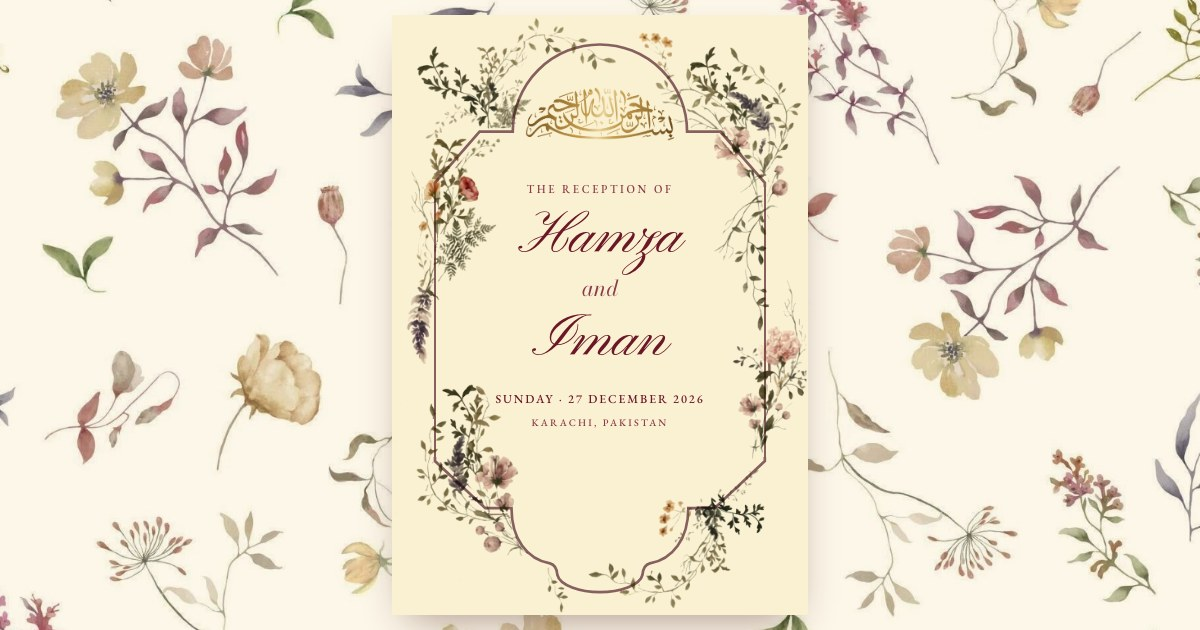
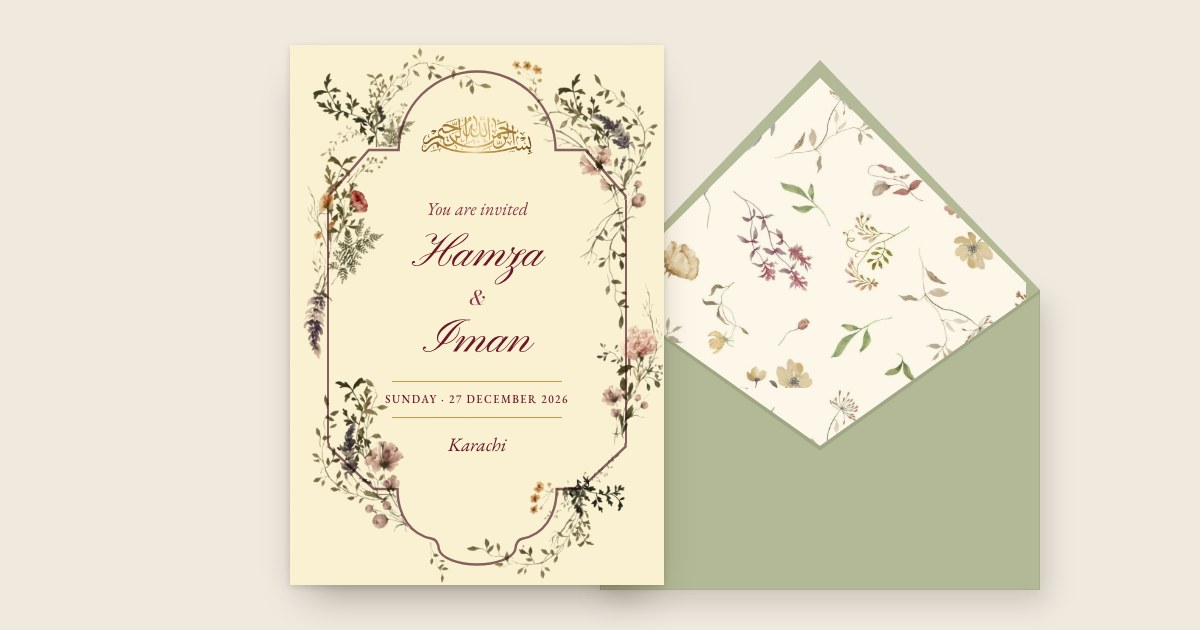
Link previews: the card in front of an opened envelope; 'You're invited 💌'
Shaadi: the gold-bordered card (Bismillah, You are invited, Iman & Hamza,
Monday · 21 December 2026, Lahore) before a maroon envelope lined with the
Mughal floral. Reception: the floral-arch card (Hamza & Iman, Sunday ·
27 December 2026, Karachi) before a sage envelope lined with the
wildflowers. WhatsApp title/description: 'You're invited 💌' / 'The Shaadi
of Iman & Hamza · Monday, 21 December 2026. Open your invitation.' (and
the Reception's equivalent). Previous design kept in reference/.

diff --git a/src/entry-og.tsx b/src/entry-og.tsx
@@ -1,66 +1,83 @@
 import { createRoot } from 'react-dom/client'
 import './styles/global.css'
 import './styles/sections.css'
-import { shaadi } from './content/shaadi'
-import { walima } from './content/walima'
 import { shaadiTheme } from './theme/shaadi'
 import { walimaTheme } from './theme/walima'
 import { applyTheme } from './theme/types'
 import { ReferenceFrame } from './components/Illumination'
 import { ArchFrame } from './components/sections/Hero'
-import shaadiPattern from './assets/og/shaadi-pattern.jpg'   // the mockup's pattern, single copy (no join)
+import shaadiPattern from './assets/og/shaadi-pattern.jpg'
 import receptionPattern from './assets/walima/verse-wildflowers.jpg'
 
 // Rendered only to produce /public/og/{event}.jpg (the link-preview picture),
-// photographed at 1200 x 630. Not part of the guest build.
+// photographed at 1200 x 630: the invitation card standing in front of an
+// opened envelope lined with the invitation's own pattern.
 const ev = new URLSearchParams(location.search).get('event') === 'walima' ? 'walima' : 'shaadi'
-const content = ev === 'walima' ? walima : shaadi
-const theme = ev === 'walima' ? walimaTheme : shaadiTheme
-applyTheme(theme)
+applyTheme(ev === 'walima' ? walimaTheme : shaadiTheme)
 
-const caps = { fontFamily: 'var(--font-body)', fontWeight: 500, textTransform: 'uppercase' as const, letterSpacing: '0.28em', color: 'var(--ink)' }
+const look = ev === 'walima'
+  ? { bg: '#efe9de', env: '#b3b996', envEdge: '#9ea583', liner: receptionPattern, linerSize: '520px auto' }
+  : { bg: '#efe8dc', env: '#5b1422', envEdge: '#7a2133', liner: shaadiPattern, linerSize: '420px auto' }
+
+const caps = { fontFamily: 'var(--font-body)', fontWeight: 500, textTransform: 'uppercase' as const, color: 'var(--ink)' }
+
+function Envelope() {
+  // opened envelope seen from the front: flap folded up, liner showing
+  const W = 440, FLAP = 230, BODY = 300
+  return (
+    <div style={{ position: 'absolute', left: 600, top: 630 - FLAP - BODY - 40, width: W, height: FLAP + BODY }}>
+      <div style={{ position: 'absolute', left: 6, right: -6, top: FLAP + 12, height: BODY, background: 'rgba(40,20,10,0.18)', filter: 'blur(14px)' }} />
+      {/* the envelope's back and open flap, then its liner as one piece */}
+      <div style={{ position: 'absolute', left: 0, top: 0, width: W, height: FLAP + BODY, background: look.env, clipPath: `polygon(50% 0, 100% ${FLAP}px, 100% 100%, 0 100%, 0 ${FLAP}px)` }} />
+      <div style={{ position: 'absolute', left: 14, top: 18, width: W - 28, height: FLAP - 18 + BODY * 0.62, backgroundColor: '#f5ecd6', backgroundImage: `url(${look.liner})`, backgroundSize: look.linerSize, backgroundPosition: 'center top', clipPath: `polygon(50% 0, 100% ${FLAP - 18 - 7}px, 100% 100%, 0 100%, 0 ${FLAP - 18 - 7}px)` }} />
+      {/* front pocket with its V */}
+      <div style={{ position: 'absolute', left: 0, top: FLAP, width: W, height: BODY, background: look.env, clipPath: 'polygon(0 0, 50% 52%, 100% 0, 100% 100%, 0 100%)', boxShadow: 'inset 0 0 0 1px rgba(0,0,0,0.05)' }} />
+      <div style={{ position: 'absolute', left: 0, top: FLAP, width: W, height: BODY, background: `linear-gradient(${look.envEdge}, ${look.envEdge})`, clipPath: 'polygon(0 0, 50% 52%, 100% 0, 100% 1.2%, 50% 53.5%, 0 1.2%)', opacity: 0.9 }} />
+    </div>
+  )
+}
 
 function ShaadiCard() {
   return (
-    <div style={{ position: 'relative', width: 640, height: 560, background: '#faf1d2', boxShadow: '0 18px 40px -16px rgba(60,20,10,0.55)' }}>
-      <ReferenceFrame className="folio-frame" bandRatio={0.1} />
-      <div style={{ position: 'absolute', inset: 0, zIndex: 2, display: 'flex', flexDirection: 'column', alignItems: 'center', justifyContent: 'center', textAlign: 'center', padding: '0 90px' }}>
-        <div className="hero-calligraphy" style={{ width: 196, margin: '0 auto' }} />
-        <p style={{ ...caps, fontSize: 13, marginTop: 12, color: 'var(--ink-soft)' }}>The Shaadi of</p>
-        {/* stacked as on the invitation: ایمان / with / حمزہ */}
-        <p style={{ fontFamily: "'Nafees Names'", fontSize: 58, lineHeight: 1.25, color: 'var(--ink)', marginTop: 6 }} lang="ur" dir="rtl">{content.couple.firstArabic}</p>
-        <p style={{ fontFamily: 'var(--font-display)', fontStyle: 'italic', fontSize: 24, color: 'var(--ink-soft)', margin: '-2px 0 0' }}>with</p>
-        <p style={{ fontFamily: "'Nafees Names'", fontSize: 58, lineHeight: 1.25, color: 'var(--ink)' }} lang="ur" dir="rtl">{content.couple.secondArabic}</p>
-        <span style={{ display: 'block', width: 110, height: 1, background: 'var(--gold)', margin: '10px auto 14px' }} />
-        <p style={{ ...caps, fontSize: 16 }}>Monday · 21 December 2026</p>
-        <p style={{ ...caps, fontSize: 12, marginTop: 8, color: 'var(--ink-soft)' }}>Lahore, Pakistan</p>
+    <div style={{ position: 'absolute', left: 250, top: 45, width: 420, height: 540, background: '#faf1d2', boxShadow: '0 22px 40px -18px rgba(40,15,8,0.55), 0 2px 6px rgba(40,15,8,0.18)' }}>
+      <ReferenceFrame className="folio-frame" bandRatio={0.115} />
+      <div style={{ position: 'absolute', inset: 0, zIndex: 2, display: 'flex', flexDirection: 'column', alignItems: 'center', justifyContent: 'center', textAlign: 'center', padding: '0 70px' }}>
+        <div className="hero-calligraphy" style={{ width: 150, margin: '0 auto' }} />
+        <p style={{ fontFamily: 'var(--font-body)', fontStyle: 'italic', fontSize: 22, color: 'var(--ink-soft)', marginTop: 22 }}>You are invited</p>
+        <p style={{ fontFamily: 'var(--font-display)', fontSize: 37, letterSpacing: '0.02em', lineHeight: 1.1, color: 'var(--ink)', marginTop: 14, whiteSpace: 'nowrap' }}>Iman <span style={{ fontStyle: 'italic', fontSize: 30 }}>&amp;</span> Hamza</p>
+        <span style={{ display: 'block', width: 200, height: 1, background: 'var(--gold)', margin: '22px auto 0' }} />
+        <p style={{ ...caps, fontSize: 14, letterSpacing: '0.22em', margin: '11px 0' }}>Monday · 21 December 2026</p>
+        <span style={{ display: 'block', width: 200, height: 1, background: 'var(--gold)', margin: '0 auto' }} />
+        <p style={{ fontFamily: 'var(--font-body)', fontStyle: 'italic', fontSize: 22, color: 'var(--ink)', marginTop: 18 }}>Lahore</p>
       </div>
     </div>
   )
 }
 
 function ReceptionCard() {
-  // the Reception's floral arch, sized to 600px tall
+  const H = 540, Wd = H * 1016 / 1466
   return (
-    <div className="hero-folio hero-arch" style={{ ['--vw' as string]: `${(600 * 1016 / 1466) / 100}px`, position: 'relative', width: 600 * 1016 / 1466, height: 600, minHeight: 0, padding: 0, display: 'block', boxShadow: '0 18px 40px -16px rgba(60,20,10,0.45)' }}>
+    <div className="hero-folio hero-arch" style={{ ['--vw' as string]: `${Wd / 100}px`, position: 'absolute', left: 290, top: 45, width: Wd, height: H, minHeight: 0, padding: 0, display: 'block', boxShadow: '0 22px 40px -18px rgba(40,25,10,0.45), 0 2px 6px rgba(40,25,10,0.15)' }}>
       <ArchFrame />
-      <div style={{ position: 'absolute', inset: 0, zIndex: 3, display: 'flex', flexDirection: 'column', alignItems: 'center', textAlign: 'center', paddingTop: 72 }}>
-        <div className="hero-calligraphy" style={{ width: 150, margin: '0 auto' }} />
-        <p style={{ ...caps, fontSize: 11, letterSpacing: '0.24em', marginTop: 40, color: 'var(--ink-soft)' }}>The Reception of</p>
-        <p style={{ fontFamily: "'Pinyon Script'", fontSize: 60, lineHeight: 1.12, color: 'var(--ink)', marginTop: 6 }}>{content.couple.first}</p>
-        <p style={{ fontFamily: 'var(--font-display)', fontStyle: 'italic', fontSize: 22, color: 'var(--ink-soft)', margin: '0 0 2px' }}>and</p>
-        <p style={{ fontFamily: "'Pinyon Script'", fontSize: 60, lineHeight: 1.12, color: 'var(--ink)' }}>{content.couple.second}</p>
-        <p style={{ ...caps, fontSize: 12, letterSpacing: '0.16em', marginTop: 16 }}>Sunday · 27 December 2026</p>
-        <p style={{ ...caps, fontSize: 10, letterSpacing: '0.22em', marginTop: 6, color: 'var(--ink-soft)' }}>Karachi, Pakistan</p>
+      <div style={{ position: 'absolute', inset: 0, zIndex: 3, display: 'flex', flexDirection: 'column', alignItems: 'center', textAlign: 'center', paddingTop: 70 }}>
+        <div className="hero-calligraphy" style={{ width: 112, margin: '0 auto' }} />
+        <p style={{ fontFamily: 'var(--font-body)', fontStyle: 'italic', fontSize: 18, color: 'var(--ink-soft)', marginTop: 40 }}>You are invited</p>
+        <p style={{ fontFamily: "'Pinyon Script'", fontSize: 48, lineHeight: 1.1, color: 'var(--ink)', marginTop: 6 }}>Hamza</p>
+        <p style={{ fontFamily: 'var(--font-display)', fontStyle: 'italic', fontSize: 20, color: 'var(--ink-soft)', margin: '0 0 2px' }}>&amp;</p>
+        <p style={{ fontFamily: "'Pinyon Script'", fontSize: 48, lineHeight: 1.1, color: 'var(--ink)' }}>Iman</p>
+        <span style={{ display: 'block', width: 170, height: 1, background: 'var(--gold)', margin: '14px auto 0' }} />
+        <p style={{ ...caps, fontSize: 11, letterSpacing: '0.13em', margin: '9px 0' }}>Sunday · 27 December 2026</p>
+        <span style={{ display: 'block', width: 170, height: 1, background: 'var(--gold)', margin: '0 auto' }} />
+        <p style={{ fontFamily: 'var(--font-body)', fontStyle: 'italic', fontSize: 19, color: 'var(--ink)', marginTop: 12 }}>Karachi</p>
       </div>
     </div>
   )
 }
 
 function Og() {
-  const pattern = ev === 'walima' ? receptionPattern : shaadiPattern
   return (
-    <div style={{ width: 1200, height: 630, display: 'flex', alignItems: 'center', justifyContent: 'center', backgroundColor: '#f6ead2', backgroundImage: `url(${pattern})`, backgroundSize: 'cover', backgroundPosition: 'center' }}>
+    <div style={{ position: 'relative', width: 1200, height: 630, background: look.bg, overflow: 'hidden' }}>
+      <Envelope />
       {ev === 'walima' ? <ReceptionCard /> : <ShaadiCard />}
     </div>
   )

diff --git a/reference/entry-og-card-version.tsx b/reference/entry-og-card-version.tsx
@@ -1,0 +1,68 @@
+import { createRoot } from 'react-dom/client'
+import './styles/global.css'
+import './styles/sections.css'
+import { shaadi } from './content/shaadi'
+import { walima } from './content/walima'
+import { shaadiTheme } from './theme/shaadi'
+import { walimaTheme } from './theme/walima'
+import { applyTheme } from './theme/types'
+import { ReferenceFrame } from './components/Illumination'
+import { ArchFrame } from './components/sections/Hero'
+import shaadiPattern from './assets/og/shaadi-pattern.jpg'   // the mockup's pattern, single copy (no join)
+import receptionPattern from './assets/walima/verse-wildflowers.jpg'
+
+// Rendered only to produce /public/og/{event}.jpg (the link-preview picture),
+// photographed at 1200 x 630. Not part of the guest build.
+const ev = new URLSearchParams(location.search).get('event') === 'walima' ? 'walima' : 'shaadi'
+const content = ev === 'walima' ? walima : shaadi
+const theme = ev === 'walima' ? walimaTheme : shaadiTheme
+applyTheme(theme)
+
+const caps = { fontFamily: 'var(--font-body)', fontWeight: 500, textTransform: 'uppercase' as const, letterSpacing: '0.28em', color: 'var(--ink)' }
+
+function ShaadiCard() {
+  return (
+    <div style={{ position: 'relative', width: 640, height: 560, background: '#faf1d2', boxShadow: '0 18px 40px -16px rgba(60,20,10,0.55)' }}>
+      <ReferenceFrame className="folio-frame" bandRatio={0.1} />
+      <div style={{ position: 'absolute', inset: 0, zIndex: 2, display: 'flex', flexDirection: 'column', alignItems: 'center', justifyContent: 'center', textAlign: 'center', padding: '0 90px' }}>
+        <div className="hero-calligraphy" style={{ width: 196, margin: '0 auto' }} />
+        <p style={{ ...caps, fontSize: 13, marginTop: 12, color: 'var(--ink-soft)' }}>The Shaadi of</p>
+        {/* stacked as on the invitation: ایمان / with / حمزہ */}
+        <p style={{ fontFamily: "'Nafees Names'", fontSize: 58, lineHeight: 1.25, color: 'var(--ink)', marginTop: 6 }} lang="ur" dir="rtl">{content.couple.firstArabic}</p>
+        <p style={{ fontFamily: 'var(--font-display)', fontStyle: 'italic', fontSize: 24, color: 'var(--ink-soft)', margin: '-2px 0 0' }}>with</p>
+        <p style={{ fontFamily: "'Nafees Names'", fontSize: 58, lineHeight: 1.25, color: 'var(--ink)' }} lang="ur" dir="rtl">{content.couple.secondArabic}</p>
+        <span style={{ display: 'block', width: 110, height: 1, background: 'var(--gold)', margin: '10px auto 14px' }} />
+        <p style={{ ...caps, fontSize: 16 }}>Monday · 21 December 2026</p>
+        <p style={{ ...caps, fontSize: 12, marginTop: 8, color: 'var(--ink-soft)' }}>Lahore, Pakistan</p>
+      </div>
+    </div>
+  )
+}
+
+function ReceptionCard() {
+  // the Reception's floral arch, sized to 600px tall
+  return (
+    <div className="hero-folio hero-arch" style={{ ['--vw' as string]: `${(600 * 1016 / 1466) / 100}px`, position: 'relative', width: 600 * 1016 / 1466, height: 600, minHeight: 0, padding: 0, display: 'block', boxShadow: '0 18px 40px -16px rgba(60,20,10,0.45)' }}>
+      <ArchFrame />
+      <div style={{ position: 'absolute', inset: 0, zIndex: 3, display: 'flex', flexDirection: 'column', alignItems: 'center', textAlign: 'center', paddingTop: 72 }}>
+        <div className="hero-calligraphy" style={{ width: 150, margin: '0 auto' }} />
+        <p style={{ ...caps, fontSize: 11, letterSpacing: '0.24em', marginTop: 40, color: 'var(--ink-soft)' }}>The Reception of</p>
+        <p style={{ fontFamily: "'Pinyon Script'", fontSize: 60, lineHeight: 1.12, color: 'var(--ink)', marginTop: 6 }}>{content.couple.first}</p>
+        <p style={{ fontFamily: 'var(--font-display)', fontStyle: 'italic', fontSize: 22, color: 'var(--ink-soft)', margin: '0 0 2px' }}>and</p>
+        <p style={{ fontFamily: "'Pinyon Script'", fontSize: 60, lineHeight: 1.12, color: 'var(--ink)' }}>{content.couple.second}</p>
+        <p style={{ ...caps, fontSize: 12, letterSpacing: '0.16em', marginTop: 16 }}>Sunday · 27 December 2026</p>
+        <p style={{ ...caps, fontSize: 10, letterSpacing: '0.22em', marginTop: 6, color: 'var(--ink-soft)' }}>Karachi, Pakistan</p>
+      </div>
+    </div>
+  )
+}
+
+function Og() {
+  const pattern = ev === 'walima' ? receptionPattern : shaadiPattern
+  return (
+    <div style={{ width: 1200, height: 630, display: 'flex', alignItems: 'center', justifyContent: 'center', backgroundColor: '#f6ead2', backgroundImage: `url(${pattern})`, backgroundSize: 'cover', backgroundPosition: 'center' }}>
+      {ev === 'walima' ? <ReceptionCard /> : <ShaadiCard />}
+    </div>
+  )
+}
+createRoot(document.getElementById('root')!).render(<Og />)

diff --git a/walima/index.html b/walima/index.html
@@ -9,14 +9,14 @@
     <meta name="description" content="You are invited to the Reception of Hamza and Iman. Sunday, 27 December 2026, Karachi." />
     <!-- Open Graph: the WhatsApp preview. Replace https://SITE_URL with the real domain. -->
     <meta property="og:type" content="website" />
-    <meta property="og:title" content="Hamza &amp; Iman · Reception · 27 December 2026" />
-    <meta property="og:description" content="You are invited to the Reception of Hamza and Iman. Sunday, 27 December 2026, Karachi." />
+    <meta property="og:title" content="You’re invited 💌" />
+    <meta property="og:description" content="The Reception of Hamza &amp; Iman · Sunday, 27 December 2026. Open your invitation." />
     <meta property="og:image" content="https://hbaig2701.github.io/wedding-invite/og/walima.jpg" />
     <meta property="og:image:width" content="1200" />
     <meta property="og:image:height" content="630" />
     <meta property="og:url" content="https://hbaig2701.github.io/wedding-invite/walima/" />
     <meta name="twitter:card" content="summary_large_image" />
-    <meta name="twitter:title" content="Hamza &amp; Iman · Reception · 27 December 2026" />
+    <meta name="twitter:title" content="You’re invited 💌" />
     <meta name="twitter:image" content="https://hbaig2701.github.io/wedding-invite/og/walima.jpg" />
     <link rel="icon" href="/favicon.svg" type="image/svg+xml" />
     <meta name="robots" content="noindex" />

diff --git a/index.html b/index.html
@@ -9,14 +9,14 @@
     <meta name="description" content="You are invited to the Shaadi of Iman and Hamza. Monday, 21 December 2026, Lahore." />
     <!-- Open Graph: the WhatsApp preview. Replace https://SITE_URL with the real domain. -->
     <meta property="og:type" content="website" />
-    <meta property="og:title" content="Iman &amp; Hamza · Shaadi · 21 December 2026" />
-    <meta property="og:description" content="You are invited to the Shaadi of Iman and Hamza. Monday, 21 December 2026, Lahore." />
+    <meta property="og:title" content="You’re invited 💌" />
+    <meta property="og:description" content="The Shaadi of Iman &amp; Hamza · Monday, 21 December 2026. Open your invitation." />
     <meta property="og:image" content="https://hbaig2701.github.io/wedding-invite/og/shaadi.jpg" />
     <meta property="og:image:width" content="1200" />
     <meta property="og:image:height" content="630" />
     <meta property="og:url" content="https://hbaig2701.github.io/wedding-invite/shaadi/" />
     <meta name="twitter:card" content="summary_large_image" />
-    <meta name="twitter:title" content="Iman &amp; Hamza · Shaadi · 21 December 2026" />
+    <meta name="twitter:title" content="You’re invited 💌" />
     <meta name="twitter:image" content="https://hbaig2701.github.io/wedding-invite/og/shaadi.jpg" />
     <link rel="icon" href="/favicon.svg" type="image/svg+xml" />
     <meta name="robots" content="noindex" />

diff --git a/shaadi/index.html b/shaadi/index.html
@@ -9,14 +9,14 @@
     <meta name="description" content="You are invited to the Shaadi of Iman and Hamza. Monday, 21 December 2026, Lahore." />
     <!-- Open Graph: the WhatsApp preview. Replace https://SITE_URL with the real domain. -->
     <meta property="og:type" content="website" />
-    <meta property="og:title" content="Iman &amp; Hamza · Shaadi · 21 December 2026" />
-    <meta property="og:description" content="You are invited to the Shaadi of Iman and Hamza. Monday, 21 December 2026, Lahore." />
+    <meta property="og:title" content="You’re invited 💌" />
+    <meta property="og:description" content="The Shaadi of Iman &amp; Hamza · Monday, 21 December 2026. Open your invitation." />
     <meta property="og:image" content="https://hbaig2701.github.io/wedding-invite/og/shaadi.jpg" />
     <meta property="og:image:width" content="1200" />
     <meta property="og:image:height" content="630" />
     <meta property="og:url" content="https://hbaig2701.github.io/wedding-invite/shaadi/" />
     <meta name="twitter:card" content="summary_large_image" />
-    <meta name="twitter:title" content="Iman &amp; Hamza · Shaadi · 21 December 2026" />
+    <meta name="twitter:title" content="You’re invited 💌" />
     <meta name="twitter:image" content="https://hbaig2701.github.io/wedding-invite/og/shaadi.jpg" />
     <link rel="icon" href="/favicon.svg" type="image/svg+xml" />
     <meta name="robots" content="noindex" />
